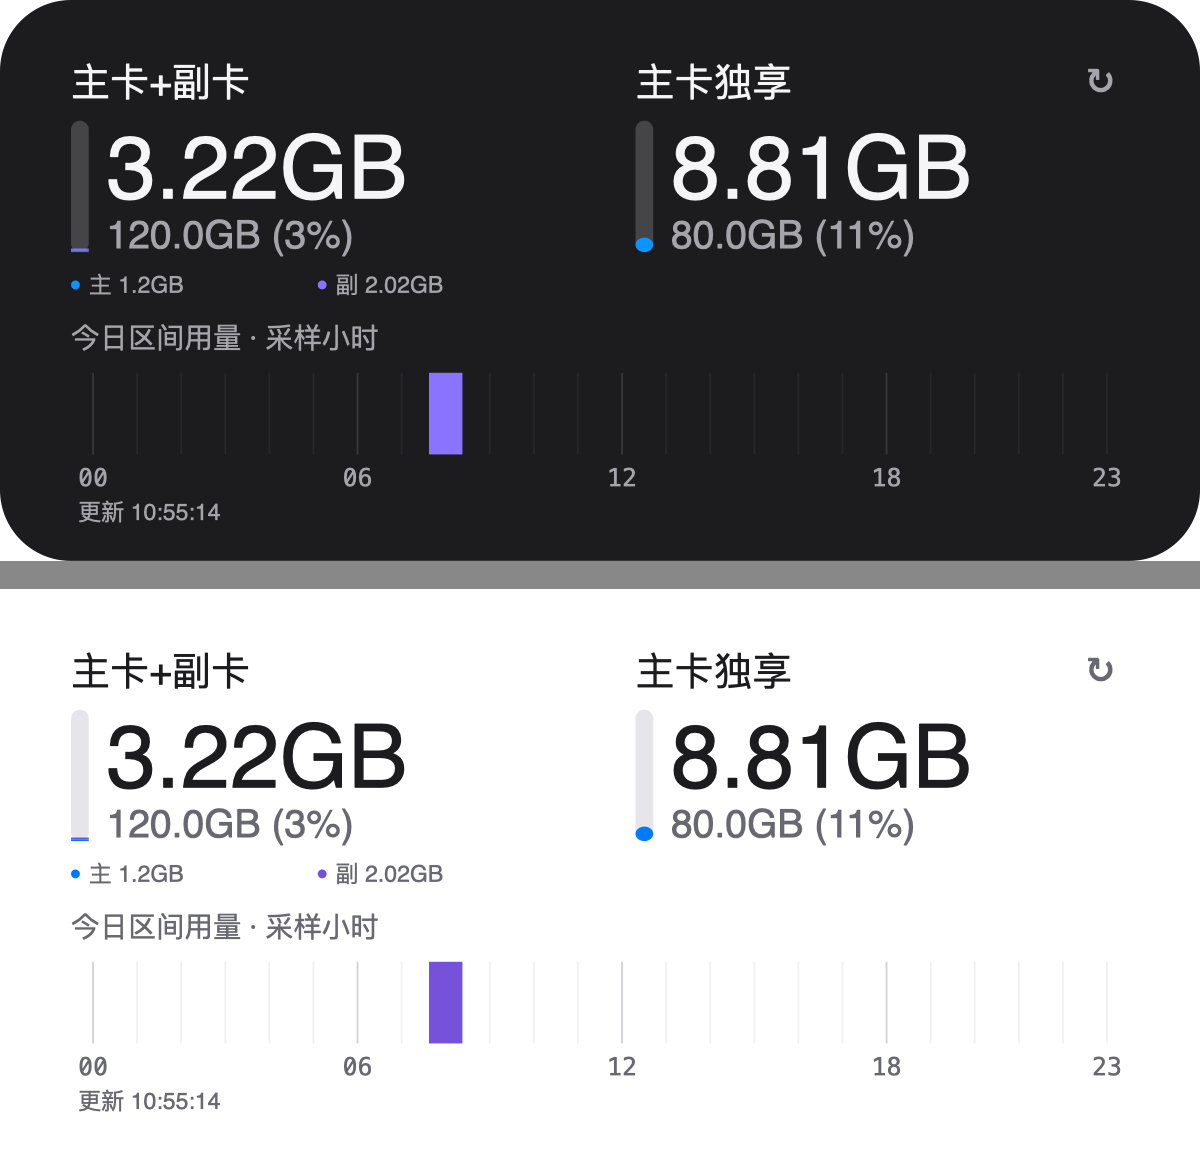
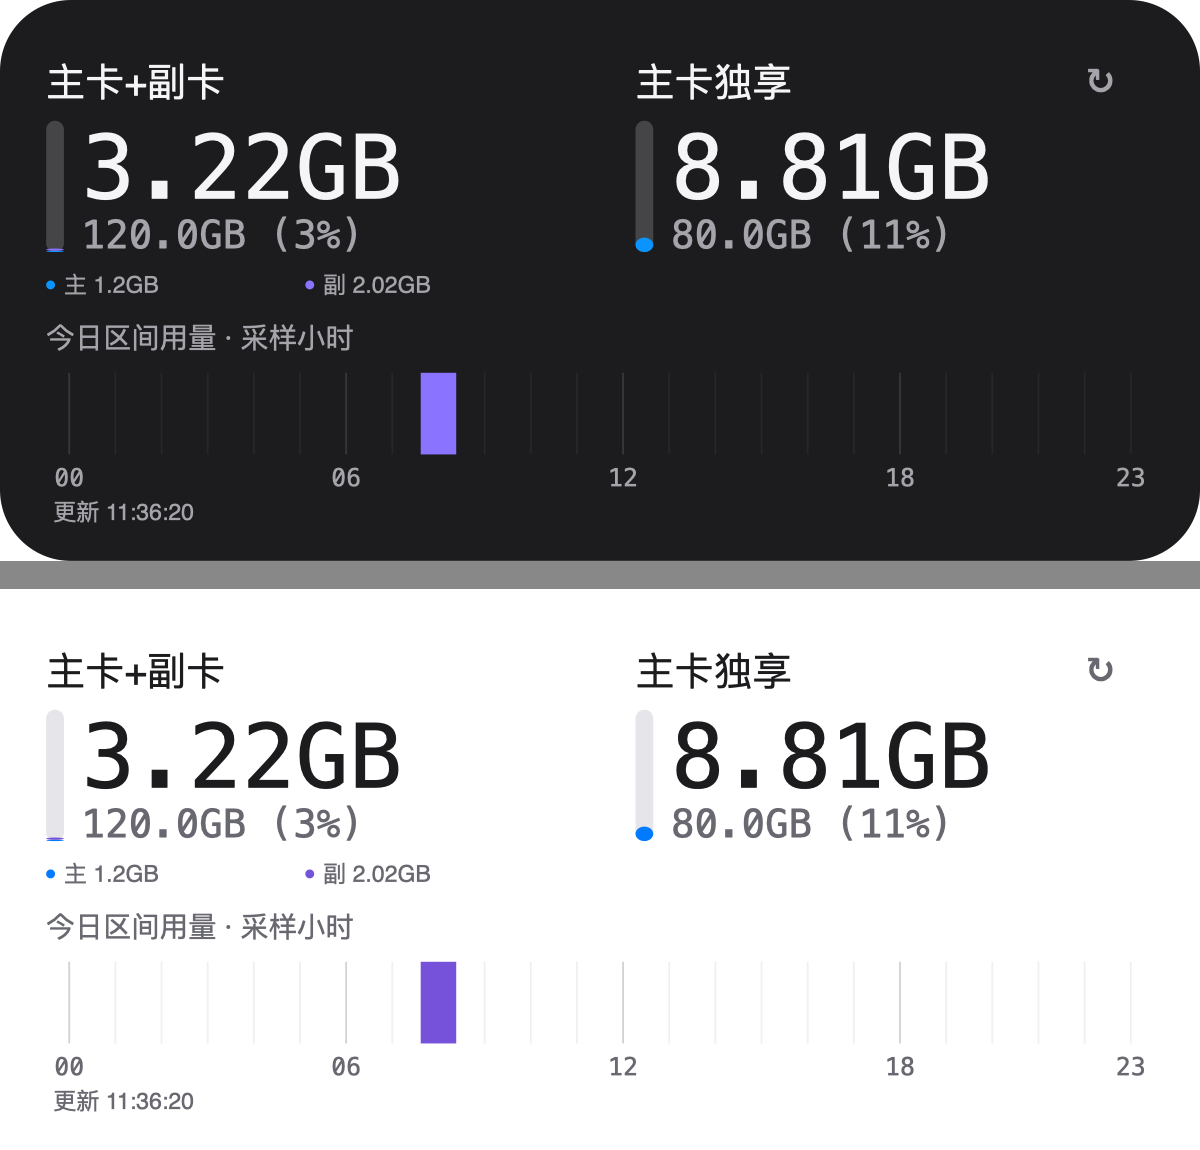
Tighten widget margins and round shared usage segments

diff --git a/scriptable/UnicomFlow.js b/scriptable/UnicomFlow.js
@@ -526,7 +526,7 @@ function text(ctx, value, x, y, width, height, size, color = UF.text, mono = fal
 function roundedRect(ctx, x, y, w, h, radius, color) {
   if (w <= 0 || h <= 0) return;
   const path = new Path();
-  path.addRoundedRect(new Rect(x, y, w, h), radius, radius);
+  path.addRoundedRect(new Rect(x, y, w, h), Math.min(radius, w / 2), Math.min(radius, h / 2));
   ctx.setFillColor(new Color(color));
   ctx.addPath(path);
   ctx.fillPath();
@@ -552,8 +552,8 @@ function drawMetric(ctx, metric, label, x, y, width, compact) {
     if (c.complete && metric.used > 0 && metric.total > 0) {
       const scale = barH / Math.max(metric.total, c.main + c.vice);
       const mainHeight = c.main * scale, viceHeight = c.vice * scale;
-      if (c.main > 0) { ctx.setFillColor(new Color(UF.blue)); ctx.fillRect(new Rect(x, barY + barH - mainHeight, barW, mainHeight)); }
-      if (c.vice > 0) { ctx.setFillColor(new Color(UF.purple)); ctx.fillRect(new Rect(x, barY + barH - mainHeight - viceHeight, barW, viceHeight)); }
+      if (c.main > 0) roundedRect(ctx, x, barY + barH - mainHeight, barW, mainHeight, 2.5, UF.blue);
+      if (c.vice > 0) roundedRect(ctx, x, barY + barH - mainHeight - viceHeight, barW, viceHeight, 2.5, UF.purple);
     }
     const half = width / 2;
     roundedRect(ctx, x, y + 63, 2.5, 2.5, 1.25, UF.blue);
@@ -576,7 +576,7 @@ function renderImage(result, medium, width, height) {
   ctx.opaque = true;
   ctx.setFillColor(new Color(UF.bg));
   ctx.fillRect(new Rect(0, 0, width, height));
-  const data = result.history.data, pad = 20;
+  const data = result.history.data, pad = 13;
   const metrics = displayMetrics(data, UF.displayMode);
   if (medium) {
     const col = (width - 2 * pad - 20) / 2;
@@ -603,7 +603,7 @@ function renderImage(result, medium, width, height) {
     });
     [0, 6, 12, 18, 23].forEach(h => text(ctx, String(h).padStart(2, '0'), chartX + (h + 0.5) * cell - 9, chartY + chartH + 2, 18, 10, 7, UF.muted, true, true));
   } else {
-    drawMetric(ctx, metrics.left, metrics.leftLabel, pad, 14, width - 2 * pad, true);
+    drawMetric(ctx, metrics.left, metrics.leftLabel, pad, 12, width - 2 * pad, true);
     drawMetric(ctx, metrics.right, metrics.rightLabel, pad, 84, width - 2 * pad, true);
   }
   const date = new Date(data.at);

diff --git a/docs/unicom-flow/README.md b/docs/unicom-flow/README.md
@@ -36,7 +36,7 @@
 
 ## 显示规则
 
-“组件配置 → 数字字体”仅保留 SF Mono Regular 和 Menlo Regular，两项均为常规字重，作用于流量大数字、总量和百分比，黑白主题共用选择。默认 SF Mono Regular。旧 Menlo 设置迁移为 Menlo Regular；其他已移除的字体及旧 SF Mono 半粗体／中等字重统一迁移为 SF Mono Regular。Menlo 不可用时回退系统等宽常规字体，不下载外部字体。主副卡说明使用系统常规字体，标题使用系统中等字重，小时刻度保留等宽字体。大数字表示已用，下方表示套餐总量和已用百分比，大小卡片统一使用数字左侧的竖进度条，从底部向上增长。主卡独享等普通套餐的竖条表示已用比例；共享池的整条高度代表套餐总量，底部蓝色段表示主卡已用、其上紫色段表示副卡已用，剩余灰色表示未用流量。例如共享总量 120 GB、主卡已用 1.2 GB、副卡已用 2.02 GB 时，两段合计只占整条约 2.68%。下方标明两张卡各自的共享用量，蓝色为主卡、紫色为副卡；成员缺失或合计不符时保留灰条并提示，不推算缺失用量。标题和数据采用更宽的安全留白；大小卡片底部均显示精确到秒的最后一次成功查询时间，中号右上角显示刷新图标，小号不显示刷新按钮，保留圆角安全留白。缓存或未识别明细的提示仍保留在安全区域内。不同手机尺寸统一按设计高度缩放布局。整卡使用背景图填满组件，避免固定宽度内容图片产生边缘细线；小时标签、竖线、柱子共用每格中心点对齐。在“组件配置 → 组件主题”选择黑色或白色，默认黑色，不随系统自动变化。两种主题分别保存自定义颜色，切换后文字、刻度、背景和提示颜色一起变化；可在“颜色配置”中调整当前主题。原版本的颜色设置仅迁移到黑色主题，避免白色主题套用旧的黑底配置。不限量套餐不计算百分比；没有返回某一类明细时显示 `--`，不伪装成 0。
+“组件配置 → 数字字体”仅保留 SF Mono Regular 和 Menlo Regular，两项均为常规字重，作用于流量大数字、总量和百分比，黑白主题共用选择。默认 SF Mono Regular。旧 Menlo 设置迁移为 Menlo Regular；其他已移除的字体及旧 SF Mono 半粗体／中等字重统一迁移为 SF Mono Regular。Menlo 不可用时回退系统等宽常规字体，不下载外部字体。主副卡说明使用系统常规字体，标题使用系统中等字重，小时刻度保留等宽字体。大数字表示已用，下方表示套餐总量和已用百分比，大小卡片统一使用数字左侧的竖进度条，从底部向上增长。主卡独享等普通套餐的竖条表示已用比例；共享池的整条高度代表套餐总量，底部蓝色段表示主卡已用、其上紫色段表示副卡已用，剩余灰色表示未用流量。例如共享总量 120 GB、主卡已用 1.2 GB、副卡已用 2.02 GB 时，两段合计只占整条约 2.68%。下方标明两张卡各自的共享用量，蓝色为主卡、紫色为副卡；成员缺失或合计不符时保留灰条并提示，不推算缺失用量。左右留白按 158 点设计高度收窄为 13 点，小号顶部为 12 点；共享条的彩色段同样使用圆头，短段按实际高度绘制椭圆圆角，不夸大用量；大小卡片底部均显示精确到秒的最后一次成功查询时间，中号右上角显示刷新图标，小号不显示刷新按钮，保留圆角安全留白。缓存或未识别明细的提示仍保留在安全区域内。不同手机尺寸统一按设计高度缩放布局。整卡使用背景图填满组件，避免固定宽度内容图片产生边缘细线；小时标签、竖线、柱子共用每格中心点对齐。在“组件配置 → 组件主题”选择黑色或白色，默认黑色，不随系统自动变化。两种主题分别保存自定义颜色，切换后文字、刻度、背景和提示颜色一起变化；可在“颜色配置”中调整当前主题。原版本的颜色设置仅迁移到黑色主题，避免白色主题套用旧的黑底配置。不限量套餐不计算百分比；没有返回某一类明细时显示 `--`，不伪装成 0。
 
 脚本调用联通的套餐明细接口 `queryOcsPackageFlowLeftContentRevisedInJune`。其明细中的 `total/use/remain` 默认以 MB 计，明确带单位的数值按单位换算；不从首页汇总值推算通用／定向数据。
 
